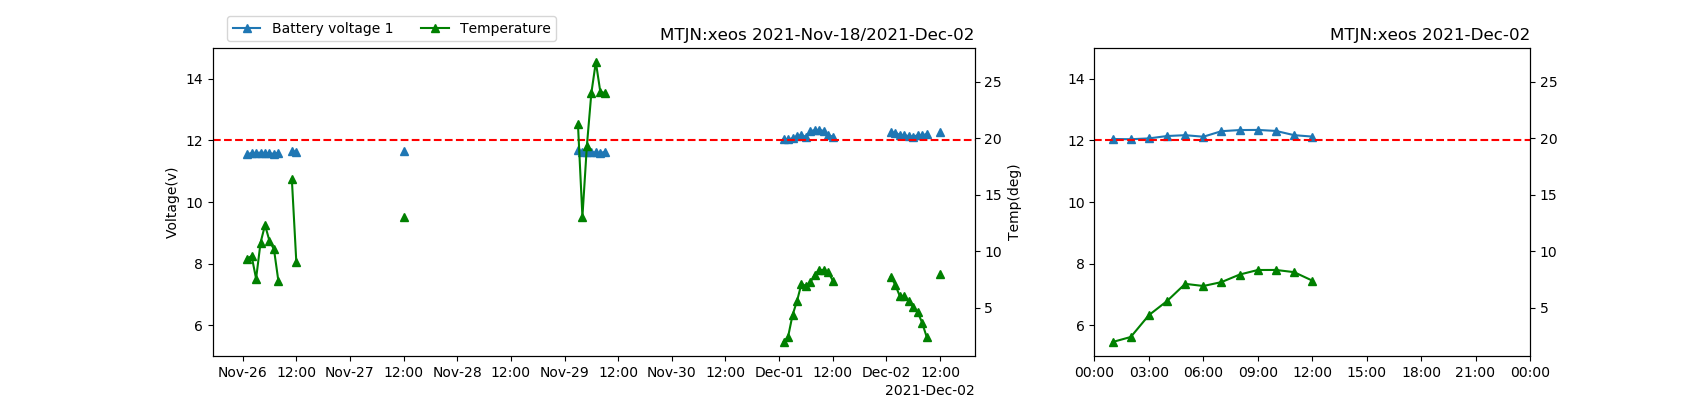
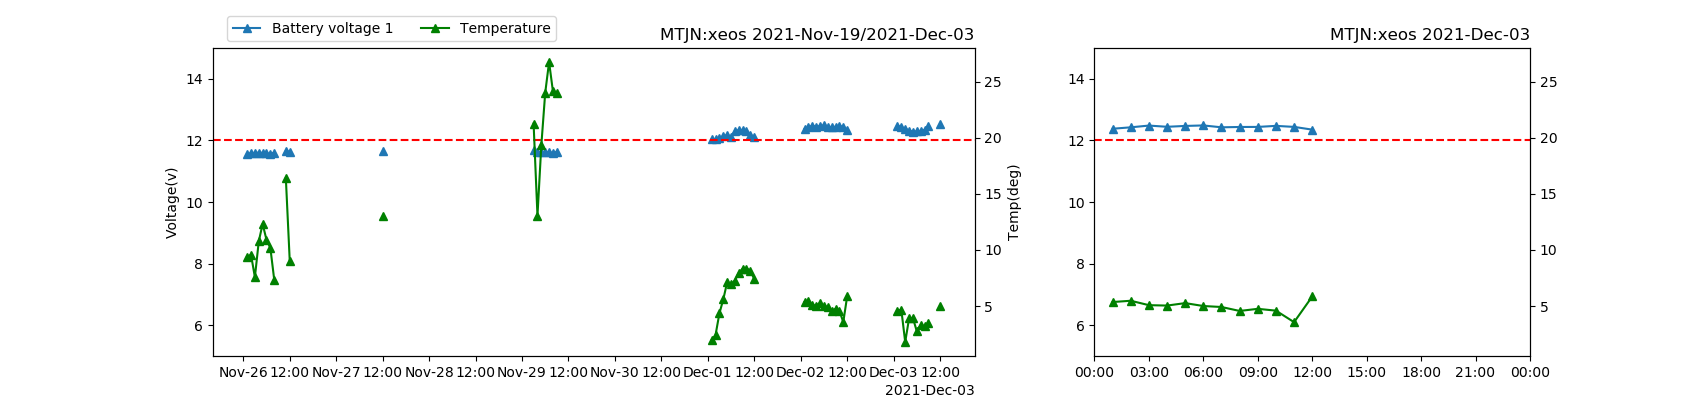
update

diff --git a/index.html b/index.html
@@ -6,7 +6,7 @@
     </head>
     <body>
     <header class="page-header">
-		<h1> UKANET SoH 2021-12-02</h1>
+		<h1> UKANET SoH 2021-12-03</h1>
     </header>
         <div class="container">
             <div class="gallery">
